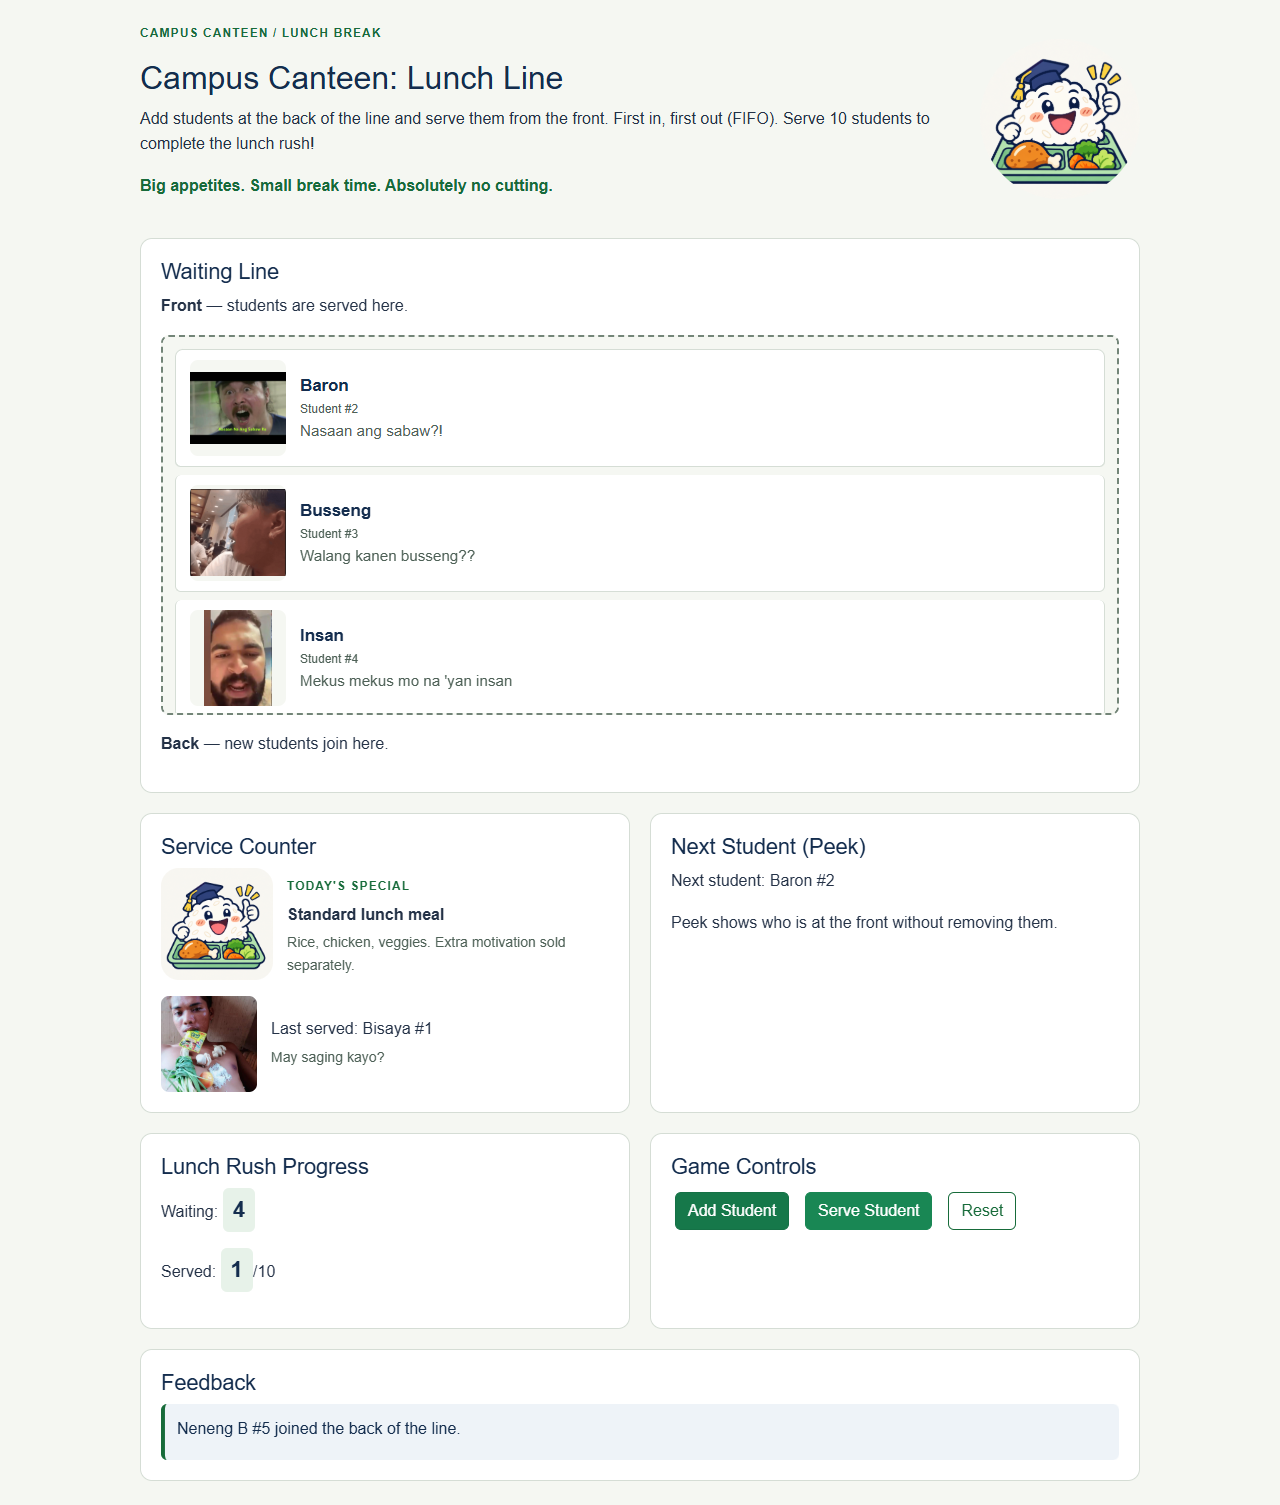
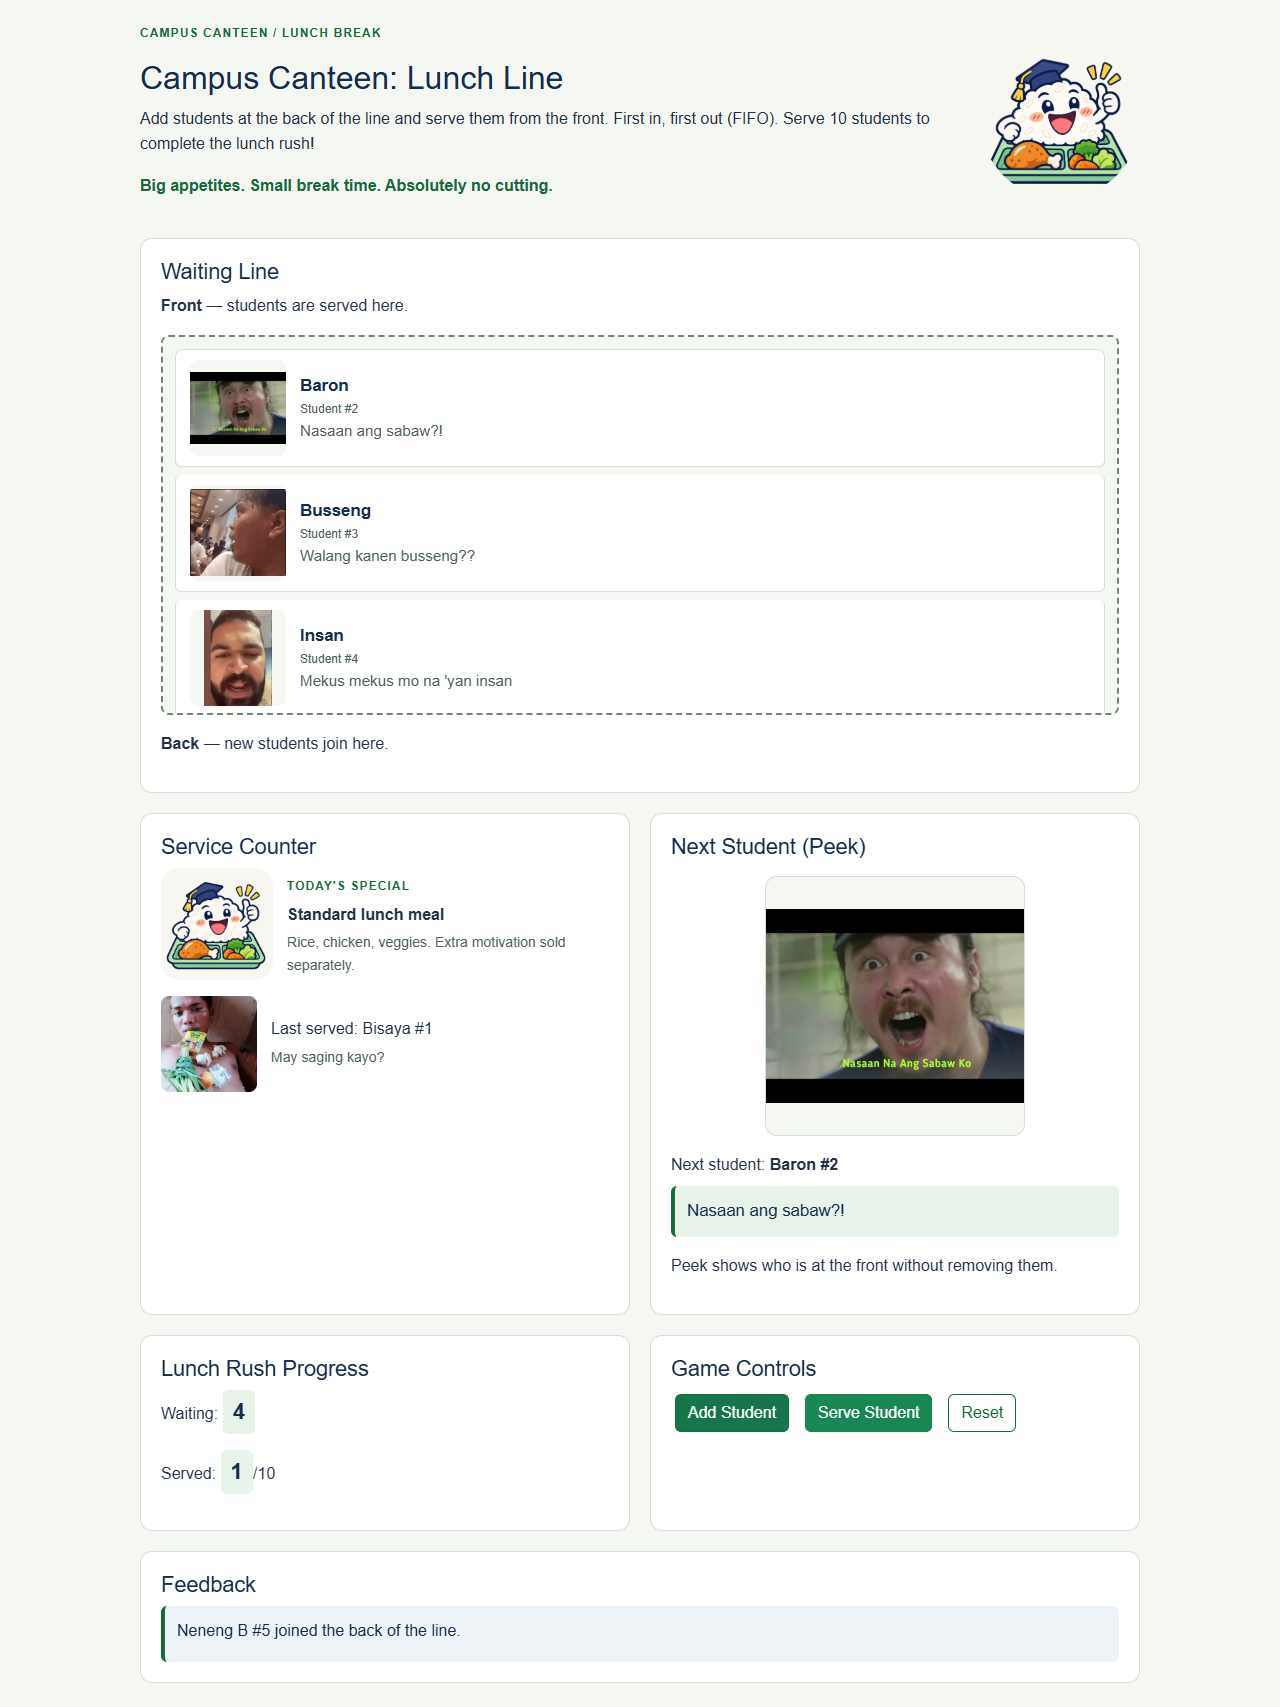
Show a large character portrait and dialogue in Peek

diff --git a/css/style.css b/css/style.css
@@ -205,3 +205,9 @@ button:disabled {
 .portrait-4 { background-image: url('../assets/member-5-meme.png'); }
 .student-name { display: block; color: #142d4e; font-size: 1.05rem; font-weight: 700; }
 .student-number { font-size: .75rem; color: #4e6157; font-weight: 400; }
+
+.peek-preview { margin: 16px 0; }
+#peek-portrait { display: block; width: min(100%, 260px); height: auto; aspect-ratio: 1; margin: 0 auto 16px; border: 1px solid #d5ddd5; border-radius: 12px; }
+#peek-portrait[hidden], #peek-dialogue[hidden] { display: none; }
+.peek-name { margin-bottom: 8px; }
+.peek-dialogue { background: #e7f2e9; color: #142d4e; border-left: 4px solid #176b3a; border-radius: 6px; padding: 12px; font-size: 1.05rem; overflow-wrap: anywhere; }

diff --git a/index.html b/index.html
@@ -49,7 +49,11 @@
 
         <section aria-labelledby="next-student-heading">
             <h2 id="next-student-heading">Next Student (Peek)</h2>
-            <p>Next student: <span id="next-student">None</span></p>
+            <div class="peek-preview">
+                <span id="peek-portrait" class="student-portrait" aria-hidden="true" hidden></span>
+                <p class="peek-name">Next student: <strong id="next-student">None</strong></p>
+                <p id="peek-dialogue" class="peek-dialogue" hidden></p>
+            </div>
             <p>Peek shows who is at the front without removing them.</p>
         </section>
 

diff --git a/js/game.js b/js/game.js
@@ -83,10 +83,15 @@ function updateDisplay() {
 
   const nextCustomer = peekCustomer();
 
+  $("#peek-portrait, #peek-dialogue").prop("hidden", nextCustomer === null);
   if (nextCustomer === null) {
     $("#next-student").text("None");
+    $("#peek-portrait").attr("class", "student-portrait");
+    $("#peek-dialogue").text("");
   } else {
     $("#next-student").text(customerLabel(nextCustomer));
+    $("#peek-portrait").attr("class", portraitClass(nextCustomer));
+    $("#peek-dialogue").text(STUDENT_MOODS[(nextCustomer.number - 1) % STUDENT_MOODS.length]);
   }
 
   $("#served-count").text(servedCount);

diff --git a/README.md b/README.md
@@ -17,7 +17,7 @@ Bootstrap CSS and jQuery are included locally with license files in their vendor
 ## How to play
 
 1. Select **Add Student** to append the next numbered student to the back.
-2. Read **Next Student (Peek)** to see who will be served without removing them.
+2. Read **Next Student (Peek)** to see a large picture, name, queue number, and dialogue for the front student without removing them. The preview clears when the queue is empty or the game is reset.
 3. Select **Serve Student** to remove the front student and update **Last served**.
 4. Continue until **Served: 10/10**. Add and Serve are then disabled. Any remaining waiting students stay visible until reset.
 5. Select **Reset** to clear the queue, counters, last-served display, and feedback, and restart numbering at 1.

diff --git a/docs/test-results.md b/docs/test-results.md
@@ -35,3 +35,6 @@ The full offline suite passed at both widths after replacing profiles 1-3. Check
 
 ## Five named profiles
 Offline checks passed at 1280px and 375px after adding Insan and Neneng B. Verified all five names and exact dialogues, both new local images, named peek and Last served, Neneng B at customer 5, and Bisaya again at customer 6. FIFO, completion, and reset checks remain passing.
+
+## Large Peek preview
+Offline checks passed at both widths. Verified the preview picture exceeds 200px, all five pictures match their front customer and exact dialogue, repeated rendering changes no queue state, and empty/reset states hide and clear the preview. The phone layout was visually inspected.
